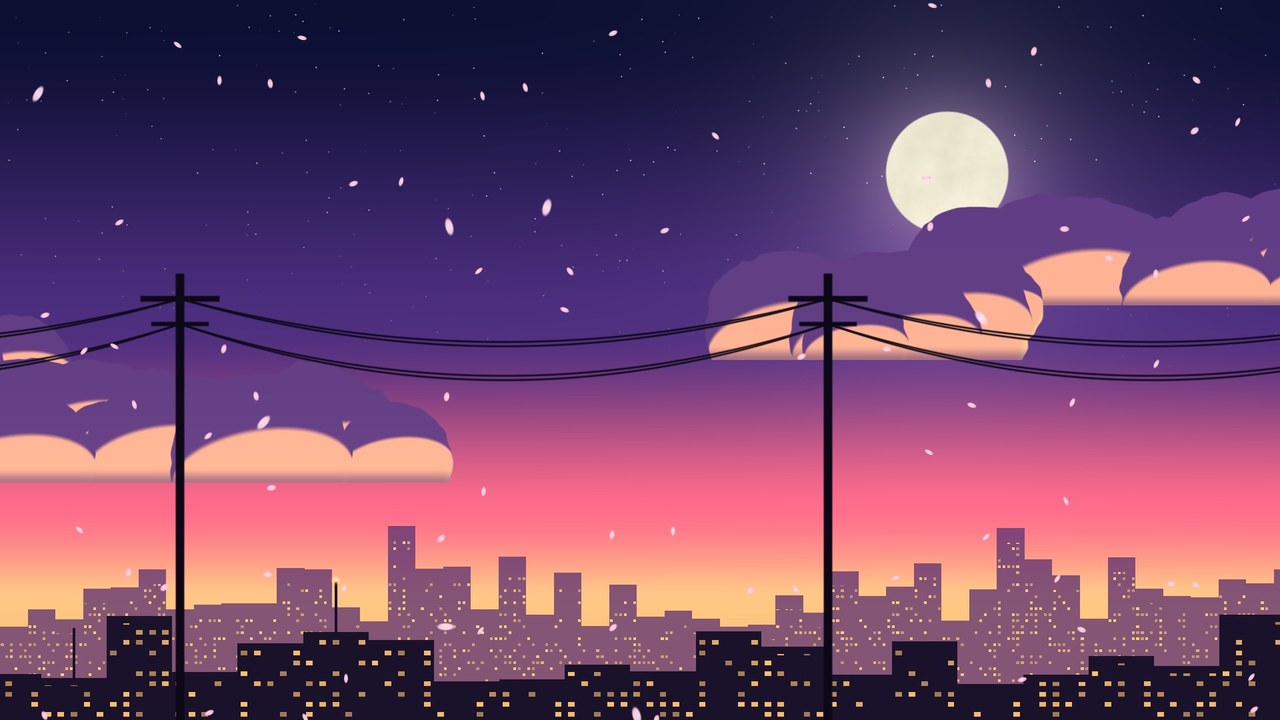
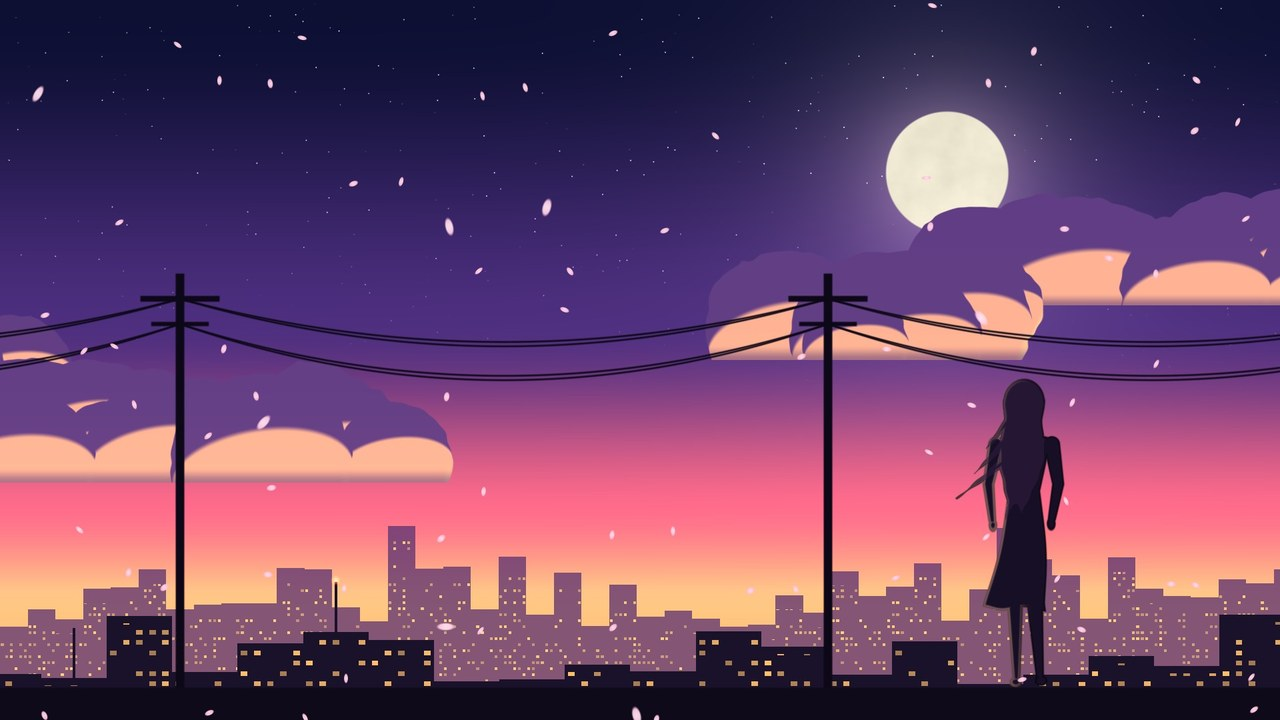
Look: a grown woman in each anime scene; never run the art on software graphics
- Each scene gets an adult woman seen from behind, the classic anime shot (woman() in the
  scene shader: simple shapes, about eight heads tall, hair, loose locks and hem moving
  in the wind). Dusk: a silhouette on a rooftop looking at the moon, rim-lit pink by the
  sunset. Summer: a white sundress with straps, sandals and a straw hat with a ribbon, on
  the hill. Stills and wallpapers re-rendered.
- The liquid art never starts on software WebGL (failIfMajorPerformanceCaveat and a
  SwiftShader/llvmpipe/softpipe renderer check): there it ran the CPU at 3 fps. Under 12
  fps for 5 s it draws smaller; a second time giveUp() shows the still picture.
- Soak (9 min, headless Chromium): JS heap 2-7 MB sawtooth, 220 DOM nodes flat, server
  44 MB flat: no leak in the page.

Claude-Session: https://claude.ai/code/session_01BgAb4TE5Cir1zo9ujoBMdc

diff --git a/src/bau/ui/jarvis.html b/src/bau/ui/jarvis.html
@@ -631,6 +631,9 @@ function holdChip(h) { const c = $("c-hold"); c.hidden = !h; c.className = "chip
 // frame into a small texture (SCENE_W x SCENE_H), then melted and refracted like a picture.
 const LIQUID_SCALE = 0.5, LIQUID_FPS = 30, HOLD_MS = 14000, MELT_MS = 7000, TEX = 1024, EMBERS = 2600;
 const SCENE_HOLD_MS = 40000, SCENE_W = 1024, SCENE_H = 512, SCENES = ["dusk", "summer"];
+// Below this many frames a second for 5 s the art draws smaller; a second time, it stops
+// and the still picture takes over. Drawn without the graphics chip it never starts.
+const LIQUID_MIN_FPS = 12, SOFTWARE_GL = /swiftshader|llvmpipe|softpipe|software/i;
 const ENERGY = { idle: 0.2, listening: 0.55, thinking: 1, speaking: 0.7 };
 const GLSL_HEAD = `#ifdef GL_FRAGMENT_PRECISION_HIGH
 precision highp float;
@@ -821,6 +824,93 @@ vec3 powerLines(vec3 col, vec2 P, vec3 ink) {
   }
   return col;
 }
+// An adult woman seen from behind, the classic anime shot: long hair and a long dress or
+// coat moving in the wind. Built from simple shapes in figure space q (feet at 0, the top
+// of the head at 1; about eight heads tall). summer = 1: white sundress, straw hat, warm
+// colours; summer = 0: a dark coat, rim-lit by the sunset. wind > 0 blows to the right.
+float sdBox(vec2 p, vec2 b) { vec2 d = abs(p) - b; return length(max(d, 0.0)) + min(max(d.x, d.y), 0.0); }
+float sdCap(vec2 p, vec2 a, vec2 b, float r) { vec2 pa = p - a, ba = b - a;
+  return length(pa - ba * clamp(dot(pa, ba) / dot(ba, ba), 0.0, 1.0)) - r; }
+float sdTrap(vec2 p, float y0, float y1, float w0, float w1) {
+  float w = mix(w0, w1, clamp((p.y - y0) / (y1 - y0), 0.0, 1.0));
+  return max(abs(p.x) - w, max(y0 - p.y, p.y - y1));
+}
+float sdEll(vec2 p, vec2 c, vec2 r) { return (length((p - c) / r) - 1.0) * min(r.x, r.y); }
+float sdTaper(vec2 p, vec2 a, vec2 b, float ra, float rb) {        // a limb: thick at a, thin at b
+  vec2 pa = p - a, ba = b - a; float h = clamp(dot(pa, ba) / dot(ba, ba), 0.0, 1.0);
+  return length(pa - ba * h) - mix(ra, rb, h);
+}
+float smin(float a, float b, float k) { float h = clamp(0.5 + 0.5 * (b - a) / k, 0.0, 1.0); return mix(b, a, h) - k * h * (1.0 - h); }
+vec3 woman(vec3 col, vec2 P, vec2 F, float H, float t, float wind, float summer, vec3 rim) {
+  vec2 q = (P - F) / H;
+  if (q.y < -0.03 || q.y > 1.12 || abs(q.x) > 0.5) return col;
+  float aa = px / H;
+  float gust = 0.6 + 0.4 * sin(t * 0.9) * sin(t * 0.37 + 1.0);
+  float breathe = sin(t * 1.4) * 0.002;
+  // hair: full, past the shoulder blades, lifting and curling in the wind; a few loose locks
+  float fy = clamp((0.92 - q.y) / 0.36, 0.0, 1.0);
+  vec2 hq = q - vec2(wind * gust * (0.06 * fy * fy + 0.014 * sin(t * 2.3 + q.y * 11.0) * fy), breathe);
+  float hw = 0.068 + 0.012 * sin(hq.y * 18.0 + 1.0) - 0.03 * fy * fy;
+  float tips = 0.56 + 0.025 * sin(hq.x * 90.0 + 2.0) + 0.02 * sin(hq.x * 37.0);
+  float hair = smin(sdEll(hq, vec2(0.0, 0.905), vec2(0.066, 0.074)),
+                    max(abs(hq.x) - hw, max(tips - hq.y, hq.y - 0.9)), 0.02);
+  for (int i = 0; i < 3; i++) {                                         // loose locks blown sideways
+    float fi = float(i), ly = 0.84 - fi * 0.06;
+    vec2 a0 = vec2(wind * 0.05, ly), a1 = vec2(wind * (0.13 + 0.03 * fi + 0.02 * sin(t * 2.0 + fi)), ly - 0.1 - 0.02 * sin(t * 1.7 + fi * 2.0));
+    hair = min(hair, sdTaper(hq + vec2(0.0, 0.0), a0, a1, 0.014, 0.002));
+  }
+  hair += sin(hq.y * 90.0 + hq.x * 30.0 + t * 1.5) * 0.0025 * fy;
+  // body: rounded shoulders, a waist, hips; standing with the weight on one leg
+  float shoulders = sdEll(q, vec2(0.0, 0.775 + breathe), vec2(0.098, 0.03));
+  float torso = smin(shoulders, sdTrap(q, 0.6, 0.78, 0.046, 0.085), 0.02);
+  float len = summer > 0.5 ? 0.31 : 0.25;
+  float gq = clamp((0.62 - q.y) / 0.35, 0.0, 1.0);
+  vec2 dq = vec2(q.x - wind * gust * (0.04 * gq * gq + 0.01 * sin(t * 2.6 + q.y * 14.0) * gq), q.y);
+  float hem = len + sin(dq.x * 45.0 + t * 3.0) * 0.01 * gust + 0.015 * dq.x * wind;
+  float skirt = sdTrap(dq, hem, 0.63, summer > 0.5 ? 0.125 : 0.1, 0.05);
+  float arms = min(min(sdTaper(q, vec2(-0.088, 0.77), vec2(-0.112, 0.645), 0.026, 0.019),
+                       sdTaper(q, vec2(-0.112, 0.645), vec2(-0.1, 0.53), 0.019, 0.013)),
+                   min(sdTaper(q, vec2(0.088, 0.77), vec2(0.108, 0.645), 0.026, 0.019),
+                       sdTaper(q, vec2(0.108, 0.645), vec2(0.088, 0.535), 0.019, 0.013)));
+  arms = min(arms, min(sdEll(q, vec2(-0.098, 0.515), vec2(0.014, 0.022)), sdEll(q, vec2(0.086, 0.52), vec2(0.014, 0.022))));
+  float legs = min(sdTaper(q, vec2(-0.03, 0.33), vec2(-0.024, 0.035), 0.029, 0.013),
+                   sdTaper(q, vec2(0.03, 0.33), vec2(0.05, 0.04), 0.029, 0.013));
+  legs = min(legs, min(sdEll(q, vec2(-0.026, 0.02), vec2(0.02, 0.016)), sdEll(q, vec2(0.054, 0.024), vec2(0.02, 0.016))));
+  float neck = sdBox(q - vec2(0.0, 0.82), vec2(0.017, 0.035));
+  float body = min(min(min(skirt, torso), min(arms, legs)), min(neck, hair));
+  float hat = 1.0, brim = 1.0;
+  if (summer > 0.5) {
+    brim = sdEll(q, vec2(0.0, 0.952), vec2(0.17 + 0.004 * sin(t), 0.022));
+    hat = min(brim, sdEll(q, vec2(0.0, 0.985), vec2(0.068, 0.052)));
+    body = min(body, hat);
+  }
+  if (body > aa * 2.0) return col;
+  vec3 c;
+  if (summer > 0.5) {
+    float sh = smoothstep(-0.01, 0.025, q.x + 0.012 * sin(q.y * 25.0));   // the sun is to the left
+    vec3 skin = mix(vec3(0.99, 0.86, 0.77), vec3(0.88, 0.67, 0.62), sh);
+    float folds = smoothstep(0.55, 0.9, sin(dq.x * 70.0 - dq.y * 6.0)) * gq * 0.6;
+    vec3 dress = mix(vec3(1.0, 0.99, 0.97), vec3(0.74, 0.8, 0.94), max(sh, folds));
+    vec3 hairc = mix(vec3(0.38, 0.21, 0.13), vec3(0.24, 0.13, 0.1), sh);
+    hairc = mix(hairc, vec3(0.66, 0.45, 0.32), smoothstep(0.012, 0.0, abs(hq.y - 0.84 - 0.8 * hq.x * hq.x)) * 0.8);
+    c = skin;                                                           // arms, legs, shoulders, neck
+    if (skirt < 0.0 || sdTrap(q, 0.6, 0.755, 0.05, 0.084) < 0.0) c = dress;
+    if (abs(abs(q.x) - 0.045) < 0.005 && q.y > 0.75 && q.y < 0.8) c = dress;   // the straps
+    if (legs < 0.0 && q.y < 0.04) c = vec3(0.55, 0.36, 0.24);         // sandals
+    if (hair < 0.0) c = hairc;
+    if (hat < 0.0) {
+      c = mix(vec3(0.96, 0.87, 0.62), vec3(0.8, 0.66, 0.42), sh);
+      if (brim < 0.0) c *= 0.92 + 0.08 * smoothstep(0.94, 0.96, q.y);
+      if (brim > 0.0 && abs(q.y - 0.972) < 0.011) c = vec3(0.88, 0.3, 0.36);   // the ribbon
+    }
+  } else {
+    c = vec3(0.09, 0.06, 0.15);                                          // a silhouette against the sunset
+    c = mix(c, rim, smoothstep(-0.012, 0.0, body) * smoothstep(0.03, -0.05, q.x) * 0.9);
+    c = mix(c, vec3(0.2, 0.12, 0.26), step(hair, 0.0) * 0.5);            // hair a shade lighter
+  }
+  c = mix(c, c * 0.45, smoothstep(-aa * 2.5, -aa * 0.5, body));        // a thin ink outline
+  return mix(col, c, smoothstep(aa, -aa, body));
+}
 vec3 dusk(vec2 P, float ca, float t) {
   float y = P.y;
   vec3 sky = mix(vec3(1.0, 0.68, 0.45), vec3(0.93, 0.38, 0.52), smoothstep(0.14, 0.3, y));
@@ -881,6 +971,8 @@ vec3 dusk(vec2 P, float ca, float t) {
   vec2 red = vec2((i2 + 0.5 - 0.37) / 11.0, hn + 0.072);
   col += vec3(1.0, 0.15, 0.1) * spire * step(0.0, sin(t * 2.5 + i2)) * smoothstep(0.008, 0.0, length(P - red)) * 1.5;
   col = powerLines(col, P, vec3(0.05, 0.03, 0.09));
+  col = mix(col, vec3(0.06, 0.04, 0.1), edge(P.y - 0.045));                 // the rooftop she stands on
+  col = woman(col, P, vec2(0.8 * ca, 0.044), 0.44, t, -1.0, 0.0, vec3(1.0, 0.72, 0.66));
   col = petals(col, P, t, 16.0, 0.5, 0.1, vec3(1.0, 0.72, 0.84), 0.87);
   col = petals(col, P, t * 1.3, 7.0, 0.8, 0.08, vec3(1.0, 0.78, 0.88), 0.93);
   return col;
@@ -920,6 +1012,8 @@ vec3 summer(vec2 P, float ca, float t) {
   vec3 green = mix(vec3(0.20, 0.50, 0.22), vec3(0.45, 0.78, 0.32), smoothstep(hill - 0.06, hill, y));
   col = mix(col, green, smoothstep(-0.002, 0.002, hd));
   col = powerLines(col, P, vec3(0.16, 0.20, 0.30));
+  float wx = 0.3 * ca, wy = 0.12 + 0.05 * sin(wx * 2.1 + 0.4) + 0.02 * noise(vec2(wx * 6.0, 0.0));
+  col = woman(col, P, vec2(wx, wy - 0.012), 0.36, t, 1.0, 1.0, vec3(1.0));
   col = petals(col, P, t, 9.0, 0.7, 0.08, vec3(1.0, 0.88, 0.92), 0.93);
   return col;
 }
@@ -934,7 +1028,11 @@ let LIQ = false, CORE = null;   // whether the liquid art is showing; the core's
 const liquid = (() => {
   const c = $("liquid"); let gl = null;
   try { gl = c && c.getContext("webgl", { premultipliedAlpha: true, antialias: false, depth: false,
-    powerPreference: "low-power" }); } catch (e) { gl = null; }
+    powerPreference: "low-power", failIfMajorPerformanceCaveat: true }); } catch (e) { gl = null; }
+  if (gl) {                                 // drawn by the processor: not on an 8 GB laptop
+    const info = gl.getExtension("WEBGL_debug_renderer_info");
+    if (info && SOFTWARE_GL.test(gl.getParameter(info.UNMASKED_RENDERER_WEBGL) || "")) gl = null;
+  }
   if (REDUCED || !gl) return null;          // the still picture (#art) is used instead
   function program(vs, fs, attr) {
     const sh = (type, src) => { const s = gl.createShader(type); gl.shaderSource(s, src); gl.compileShader(s);
@@ -1012,10 +1110,11 @@ const liquid = (() => {
     cache.set(name, p); return p;
   }
   let flow = [], at = 0, A = null, B = null, since = 0, raf = 0, last = 0, clock = 0, lost = false;
+  let scale = LIQUID_SCALE, win = 0, frames = 0, slow = 0;
   let E = 0.2, ptr = [0.5, 0.5], ptrTo = [0.5, 0.5], hue = [0.25, 0.84, 1], core = [0, 0, 0.16];
   addEventListener("pointermove", (e) => { ptrTo = [e.clientX / innerWidth, e.clientY / innerHeight]; });
-  function size() { c.width = Math.max(2, Math.round(innerWidth * LIQUID_SCALE));
-    c.height = Math.max(2, Math.round(innerHeight * LIQUID_SCALE)); gl.viewport(0, 0, c.width, c.height); }
+  function size() { c.width = Math.max(2, Math.round(innerWidth * scale));
+    c.height = Math.max(2, Math.round(innerHeight * scale)); gl.viewport(0, 0, c.width, c.height); }
   addEventListener("resize", size); size();
   async function next() {                   // line up the following picture
     if (flow.length < 2) { B = null; return; }
@@ -1032,6 +1131,13 @@ const liquid = (() => {
     if (now - last < 1000 / LIQUID_FPS) return;
     const dt = Math.min(0.1, (now - (last || now)) / 1000); last = now;
     if (!A) return;
+    frames++;
+    if (!win) win = now;
+    if (now - win > 5000) {                  // keeping up? if not: smaller, then the still picture
+      const fps = frames * 1000 / (now - win); frames = 0; win = now;
+      if (fps < LIQUID_MIN_FPS && ++slow >= 2) { giveUp(); return; }
+      if (fps < LIQUID_MIN_FPS) { scale = LIQUID_SCALE * 0.6; size(); }
+    }
     const want = (ENERGY[STATE] || 0.2) + level * 0.4;
     E += (want - E) * Math.min(1, dt * 2);
     clock = (clock + dt * (0.6 + E * 1.4)) % 3600;
@@ -1060,11 +1166,12 @@ const liquid = (() => {
       gl.drawArrays(gl.POINTS, 0, EMBERS);
     }
   }
-  function run() { if (!raf && !lost && !document.hidden && flow.length) { last = 0; raf = requestAnimationFrame(draw); } }
+  function run() { if (!raf && !lost && !document.hidden && flow.length) { last = 0; win = 0; frames = 0; raf = requestAnimationFrame(draw); } }
   function stop() { if (raf) cancelAnimationFrame(raf); raf = 0; }
   document.addEventListener("visibilitychange", () => (document.hidden ? stop() : run()));
-  c.addEventListener("webglcontextlost", (e) => { e.preventDefault(); lost = true; stop();
-    c.classList.remove("on"); LIQ = false; applyLook(LOOK); });
+  function giveUp() { lost = true; stop(); c.classList.remove("on"); LIQ = false;
+    document.body.classList.remove("liquid"); applyLook(LOOK); }
+  c.addEventListener("webglcontextlost", (e) => { e.preventDefault(); giveUp(); });
   return {
     ok: () => !lost,
     show(names) {

diff --git a/tests/test_bau_look.py b/tests/test_bau_look.py
@@ -186,6 +186,16 @@ def test_the_core_is_a_glass_drop_that_breathes_the_pictures():
     assert "EMBERS = " in page and "% 3600" in page           # few of them; time kept small
 
 
+def test_the_liquid_art_never_loads_a_laptop_without_graphics_help():
+    # Drawn by the processor instead of the graphics chip, the shaders would run the CPU
+    # hot (3 frames a second in a test browser): then the still picture is used instead,
+    # and a laptop that falls behind first draws smaller, then stops.
+    page = (resources.files("bau.ui") / "jarvis.html").read_text()
+    assert "failIfMajorPerformanceCaveat: true" in page
+    assert "llvmpipe" in page and "swiftshader" in page.lower()
+    assert "LIQUID_MIN_FPS" in page and "giveUp(" in page
+
+
 def test_the_anime_scenes_are_painted_live_in_jarvis():
     page = (resources.files("bau.ui") / "jarvis.html").read_text()
     assert "SCENE_FS" in page and "LOOK.live" in page           # drawn by the GPU, not a file
@@ -193,6 +203,7 @@ def test_the_anime_scenes_are_painted_live_in_jarvis():
     assert "createFramebuffer" in page and "uFullA" in page     # melted, seen through the glass
     assert "SCENE_HOLD_MS" in page                              # a scene stays longer
     assert "petals(" in page and "powerLines(" in page
+    assert "woman(" in page                                     # a grown woman in each scene
 
 
 def test_cli_look_flow(tmp_path, monkeypatch, capsys):

diff --git a/docs/HANDOFF.md b/docs/HANDOFF.md
@@ -14,7 +14,7 @@ built BAU. Read `CLAUDE.md` for layout, commands and the rules that must not be 
 | #8-#11 | This handoff; VM scripts size memory from the host, fix an existing VM, stop with BIOS steps when virtualisation is off; VS Code task |
 | next | **My Jarvis OS, MVP #1**: live USB (`image/`, `docs/LIVE-USB.md`), encrypted persistence (`jarvis-storage`), Qwen2.5-1.5B local model (`bau models fetch`), spec mapping and build order (`docs/MY-JARVIS.md`) |
 
-State: 609 tests pass (one skips when run as root); 49 regulations / 65 policies validate.
+State: 610 tests pass (one skips when run as root); 49 regulations / 65 policies validate.
 
 The BAU Pack (2026-10-18, `docs/PACK.md`): BAU is installed on the owner's laptop (boots
 from the SanDisk via F12, Jarvis and Mission Control work offline) but it has no AI model
@@ -71,6 +71,13 @@ painted every frame into a 1024x512 FBO texture and melted/refracted like a pict
 (uFullA/uFullB); 40 s per scene. Default art "dusk", default flow dusk + summer + own;
 inkblots stay as choices only; their wallpapers removed; desktop/login now wall-dusk and
 wall-summer (stills rendered from the same shader); bau-look-desktop marker v2 re-applies.
+Then (owner: "grown art active women", read as grown, attractive women): an adult woman
+seen from behind in each scene (woman(): SDF figure, eight heads tall, hair and hem in
+the wind; dusk silhouette on a rooftop rim-lit by the sunset, summer sundress and straw
+hat on the hill). Page guard: failIfMajorPerformanceCaveat plus a renderer check
+(SwiftShader/llvmpipe/softpipe) keep the shaders off software GL; under 12 fps for 5 s it
+draws at 0.3 scale, a second time giveUp() shows the still. Soak (9 min, headless
+Chromium): JS heap 2-7 MB sawtooth, DOM 220 nodes flat, server 44 MB flat: no leak.
 
 Stick steady (2026-10-20): the owner's XPS 13 9380 still dies a few minutes after unlock
 on the new live stick (taskbar first, then everything; RAID->AHCI made no difference; no

diff --git a/docs/LOOK.md b/docs/LOOK.md
@@ -11,10 +11,15 @@ BAU paints two original anime-style scenes itself, so they never end and stay sh
 
 - **Dusk:** a city at sunset: a big moon, stars that twinkle and a shooting star now and
   then, long clouds lit pink and gold from below, warm windows in the buildings, a red
-  light blinking on a tower, power lines, and cherry petals drifting past.
+  light blinking on a tower, power lines, and cherry petals drifting past. A woman stands
+  on the rooftop looking at the moon, her hair and coat moving in the wind, lit pink at
+  the edges by the sunset.
 - **Summer:** tall summer clouds, white in the sun and blue in their own shade, the sun
   with its rays and lens flare, green hills with grass moving in the wind, power lines
-  and a few petals.
+  and a few petals. A woman in a white sundress and a straw hat stands on the hill,
+  her long hair blowing.
+
+Both women are grown-ups, seen from behind, the classic anime shot.
 
 Jarvis stays in one scene for about 40 seconds, then breathes it into his glass core and
 the other one unfurls out, like dusk turning into day. The petals and clouds move faster
@@ -61,7 +66,10 @@ The picture you chose with `bau look set` always comes first. It costs little on
 laptop: the laptop's graphics chip draws it at half size and at most 30 times a second,
 with a few thousand embers at most,
 and it stops while Jarvis's window is hidden. Without a graphics chip that can do it, or
-with "reduce motion" on, you get the still picture.
+with "reduce motion" on, you get the still picture. If the computer would draw it with
+the processor instead of the graphics chip (that would run it hot), it never starts; if
+it falls behind (under 12 pictures a second), it first draws smaller, then stops and
+shows the still picture.
 
 ## Choose the art
 
